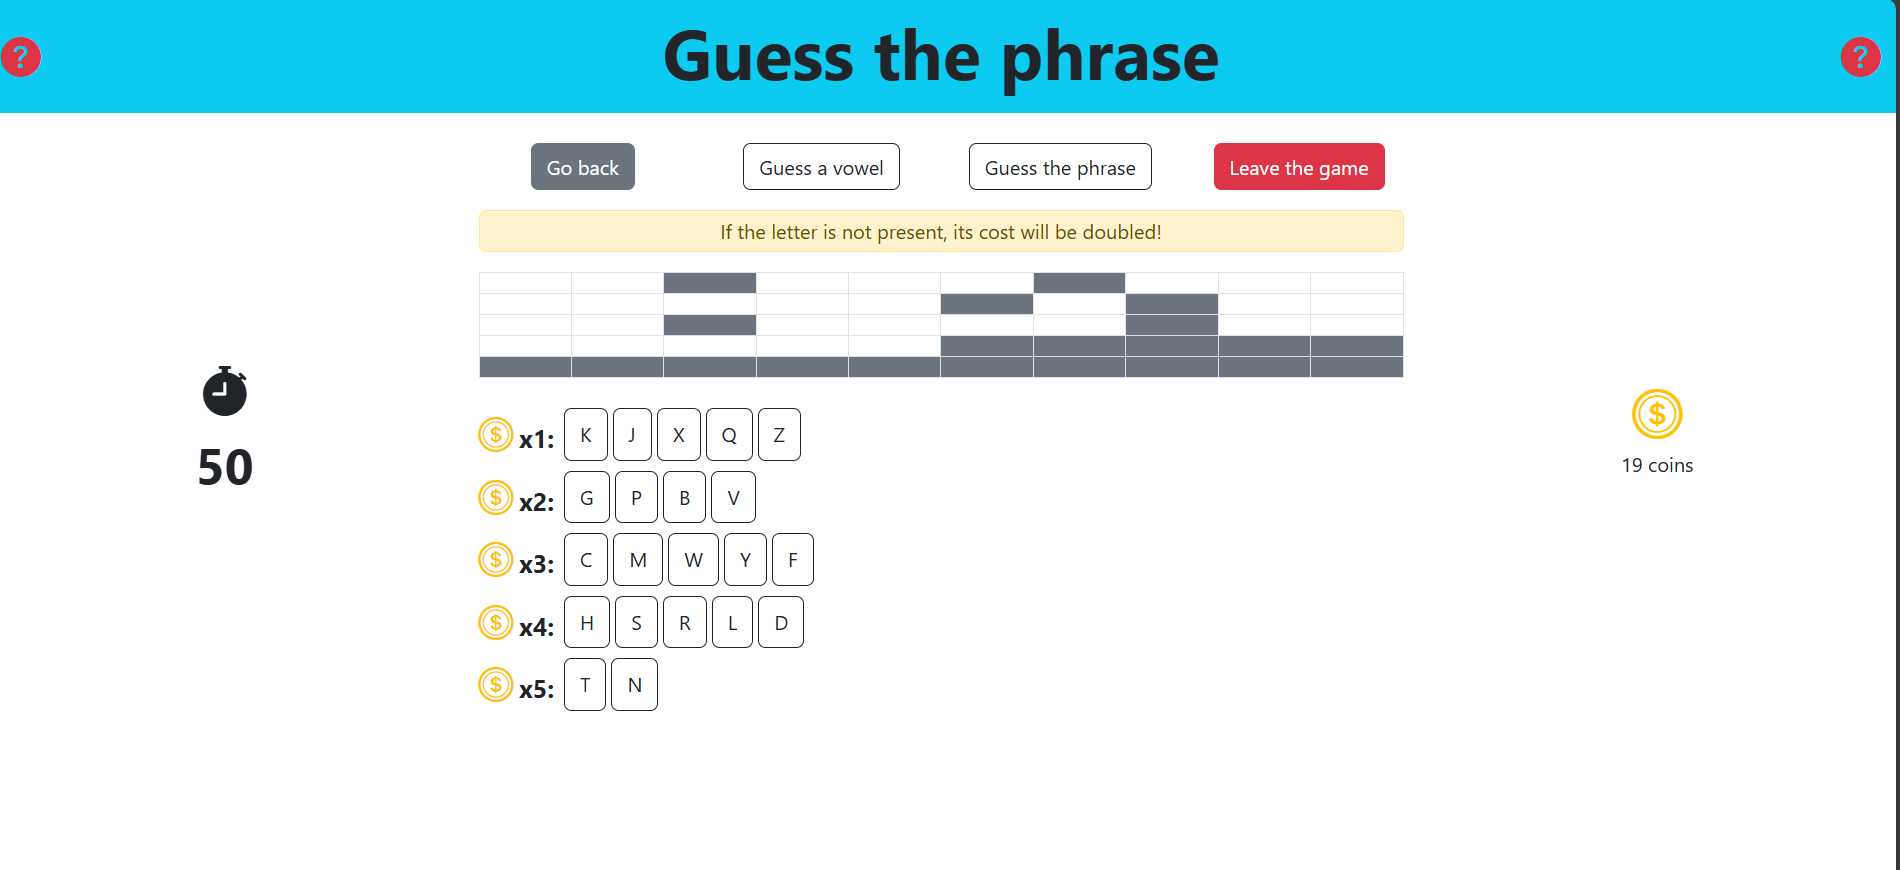
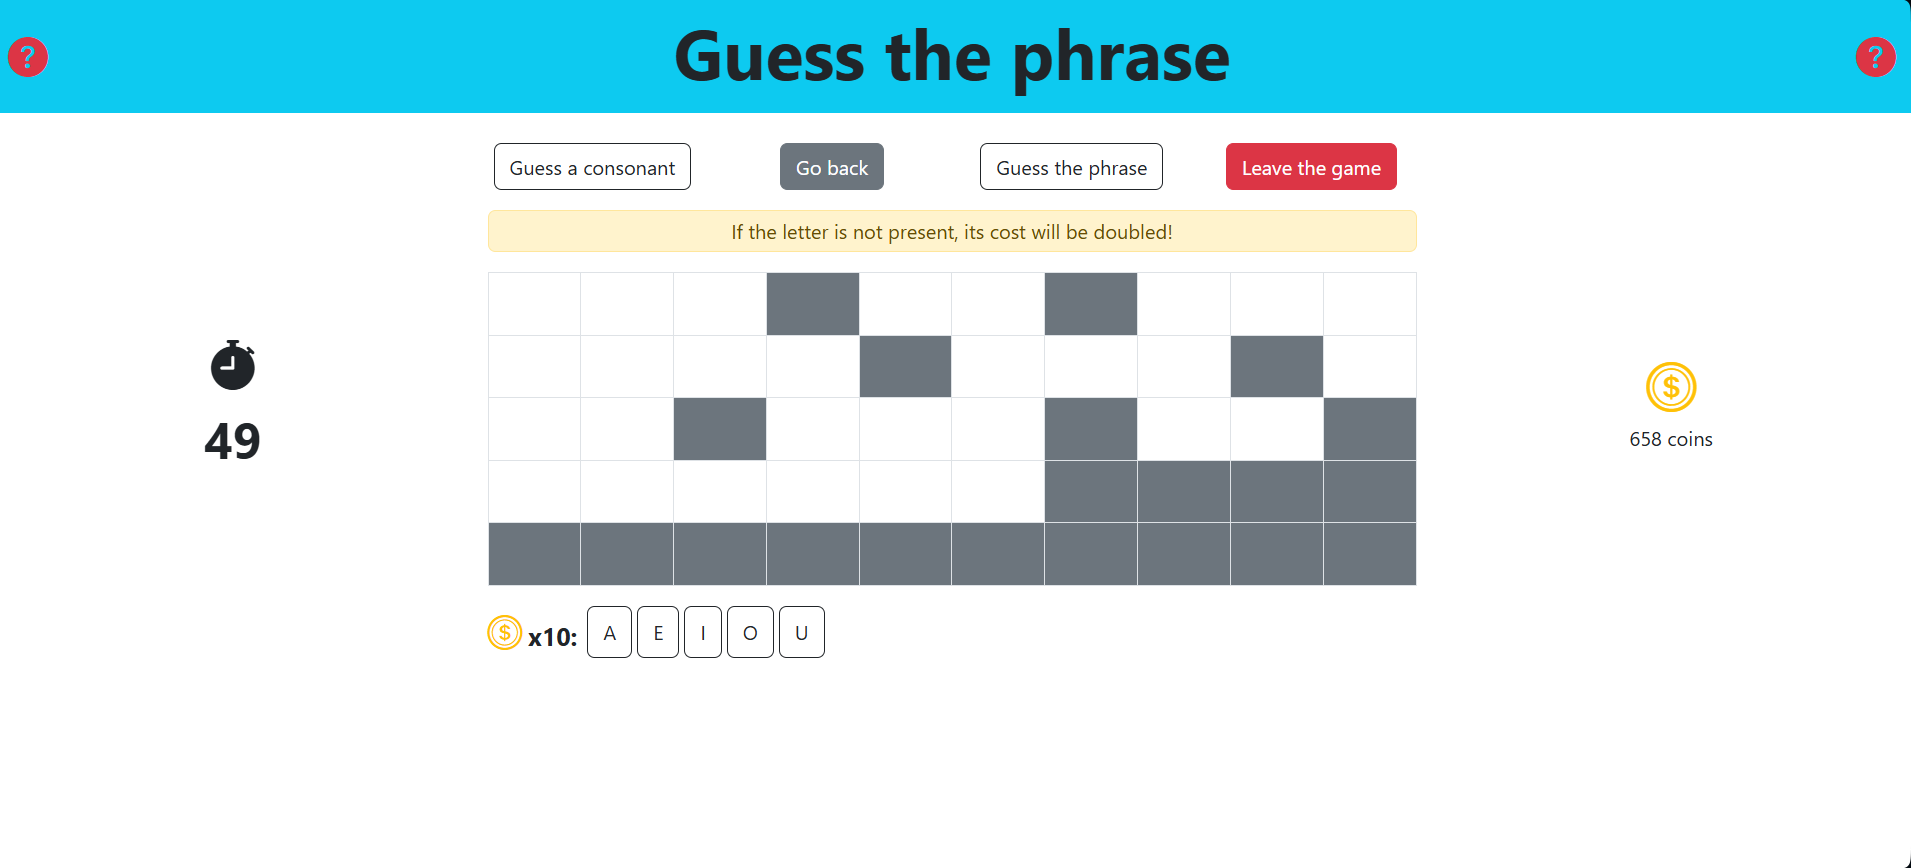
cambio screenshot e miglioramento messaggi home

diff --git a/client/components/Home.jsx b/client/components/Home.jsx
@@ -8,22 +8,30 @@ function Home() {
     const {loggedIn, user} = useContext(AuthContext);
 
     const location = useLocation();
-    const  {status} = location?.state || {};
+    const  {status, correctPhrase} = location?.state || {};
 
-    let welcomeMessage = loggedIn ? `Welcome, ${user.username}!` : 'Welcome!';;
-    let coinsMessage = loggedIn ? user.coins > 0 ? `You have ${user.coins} coins.` 
-        : `You have ${user.coins} coins: you must logout to play`
-        : `Play now or log in.`
+    let welcomeMessage;
+    let coinsMessage; 
 
-    if (status === 'won') {
-        welcomeMessage =  "Congratulations!";
-        coinsMessage = loggedIn ? `You won 100 coins, now you have ${user.coins} coins.` : "You won! Play again or log in and play with coins.";
-    } else if (status === 'timeout') {
-        welcomeMessage =  "You lost!";
-        coinsMessage = loggedIn ? `You lost 20 coins, now you have ${user.coins} coins.` : "You can play again or log in and play with coins.";
-    } else if (status === 'ended') {
-        welcomeMessage =  "You left!";
-        coinsMessage = loggedIn ? `You didn't lose any coins, you have ${user.coins} coins.` : "You can play again or log in and play with coins.";
+    switch (status) {
+        case 'won':
+            welcomeMessage =  "Congratulations!";
+            coinsMessage = loggedIn ? `You won 100 coins, now you have ${user.coins} coins` : "You won! Play again or log in and play with coins";
+            break;
+        case 'timeout':
+            welcomeMessage =  "You lost!";
+            coinsMessage = loggedIn ? `You lost 20 coins, now you have ${user.coins} coins` : "You can play again or log in and play with coins";
+            break;
+        case 'ended':
+            welcomeMessage =  "You left!";
+            coinsMessage = loggedIn ? `You didn't lose any coins, you have ${user.coins} coins` : "You can play again or log in and play with coins";
+            break;
+        default:
+            welcomeMessage =  loggedIn ? `Welcome ${user.username}!` : "Welcome!";
+            coinsMessage = loggedIn ? 
+            user.coins > 0 ? `You have ${user.coins} coins.` : `You have ${user.coins} coins: you must logout to play`
+            : `Play now or log in.`
+            break;
     }
     
     const playBtn = loggedIn ? 
@@ -37,8 +45,9 @@ function Home() {
     return(
         <>
         <Row><Col><h1 className="fw-bold">{welcomeMessage}</h1></Col></Row>
-        <Row className="lead"><Col><p>{coinsMessage}</p></Col></Row>
-        <Row><Col><p>{playBtn}{logBtn}</p></Col></Row>
+        {status && <Row className="lead"><Col>The phrase was: "{<span><strong>{correctPhrase}</strong></span>}"</Col></Row>}
+        <Row className="lead"><Col>{coinsMessage}</Col></Row>
+        <Row className="mt-3"><Col>{playBtn}{logBtn}</Col></Row>
         </>
     )
 }

diff --git a/client/src/App.jsx b/client/src/App.jsx
@@ -53,15 +53,16 @@ function App() {
   const endGame = async () => {
     const res = await API.endGame(gameInfo.game.gameId, gameInfo.status);
     const status = gameInfo.status;
+    const correctPhrase = res.phrase;
     setGameInfo(initialGameInfo);
 
     if(res.user) {
       const user = res.user;
       setUser(user);
-      navigate(`/users/${user.id}`, {state: {status}})
+      navigate(`/users/${user.id}`, {state: {status, correctPhrase}})
     } 
 
-    navigate(`/`, {state: {status}});
+    navigate(`/`, {state: {status, correctPhrase}});
   }
 
   return (

diff --git a/client/components/game/AnswerForm.jsx b/client/components/game/AnswerForm.jsx
@@ -33,7 +33,7 @@ function AnswerForm(props) {
                 <FormControl name="text" type="text" required as="textarea" rows={3} />
             </FormGroup>
             <Button variant="success" type="submit" className="me-3">Go!</Button>
-            <Button variant="danger" type="cancel">Cancel</Button>
+            <Button variant="danger" type="reset">Cancel</Button>
         </Form>
         </>
     )